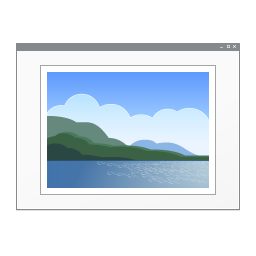
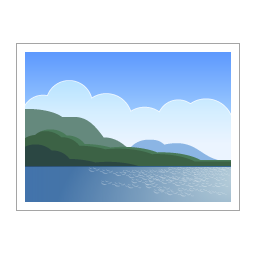
Add more systemIcons; use them for random shortcuts

Changed region(s): [[0.0625, 0.1562, 0.9375, 0.8438]]

diff --git a/index.html b/index.html
@@ -502,41 +502,70 @@
           <!-- <input type="text" id="editShortcutIcon"> -->
           <div class="editIcon radius5 alignCenter chooseBox">
             <label for="editIconfolderFull">
-            <input class="hide" type="radio" id="editIconfolderFull" name="editShortcutIcon" value="folderFull.png">
+            <input class="hide" type="radio" id="editIconfolderFull" name="editShortcutIcon" value="folderFull.png"/>
             <img class="radius5" src="os/windows/systemIcons/folderFull.png"></label>
             
             <label for="editIconfolderEmpty">
-            <input class="hide" type="radio" id="editIconfolderEmpty" name="editShortcutIcon" value="folderEmpty.png">
+            <input class="hide" type="radio" id="editIconfolderEmpty" name="editShortcutIcon" value="folderEmpty.png"/>
             <img class="radius5" src="os/windows/systemIcons/folderEmpty.png"></label>
 
             <label for="editIconfileImage">
-            <input class="hide" type="radio" id="editIconfileImage" name="editShortcutIcon" value="fileImage.png">
+            <input class="hide" type="radio" id="editIconfileImage" name="editShortcutIcon" value="fileImage.png"/>
             <img class="radius5" src="os/windows/systemIcons/fileImage.png"></label>
             
             <label for="editIconfileMovie">
-            <input class="hide" type="radio" id="editIconfileMovie" name="editShortcutIcon" value="fileMovie.png">
+            <input class="hide" type="radio" id="editIconfileMovie" name="editShortcutIcon" value="fileMovie.png"/>
             <img class="radius5" src="os/windows/systemIcons/fileMovie.png"></label>
             
             <label for="editIconfile">
-            <input class="hide" type="radio" id="editIconfile" name="editShortcutIcon" value="file.png">
+            <input class="hide" type="radio" id="editIconfile" name="editShortcutIcon" value="file.png"/>
             <img class="radius5" src="os/windows/systemIcons/file.png"></label>
 
             <label for="editIconhdd">
-            <input class="hide" type="radio" id="editIconhdd" name="editShortcutIcon" value="hdd.png">
+            <input class="hide" type="radio" id="editIconhdd" name="editShortcutIcon" value="hdd.png"/>
             <img class="radius5" src="os/windows/systemIcons/hdd.png"></label>
             
             <label for="editIcondvd">
-            <input class="hide" type="radio" id="editIcondvd" name="editShortcutIcon" value="dvd.png">
+            <input class="hide" type="radio" id="editIcondvd" name="editShortcutIcon" value="dvd.png"/>
             <img class="radius5" src="os/windows/systemIcons/dvd.png"></label>
             
             <label for="editIcontrashEmpty">
-            <input class="hide" type="radio" id="editIcontrashEmpty" name="editShortcutIcon" value="trashEmpty.png">
+            <input class="hide" type="radio" id="editIcontrashEmpty" name="editShortcutIcon" value="trashEmpty.png"/>
             <img class="radius5" src="os/windows/systemIcons/trashEmpty.png"></label>
             
             <label for="editIcontrashFull">
-            <input class="hide" type="radio" id="editIcontrashFull" name="editShortcutIcon" value="trashFull.png">
+            <input class="hide" type="radio" id="editIcontrashFull" name="editShortcutIcon" value="trashFull.png"/>
             <img class="radius5" src="os/windows/systemIcons/trashFull.png"></label>
+            
+            <label for="editIconcomputer">
+              <input class="hide" type="radio" id="editIconcomputer" name="editShortcutIcon" value="computer.png"/>
+            <img class="radius5" src="os/windows/systemIcons/computer.png"></label>
+            
+            <label for="editIcondoc">
+              <input class="hide" type="radio" id="editIcondoc" name="editShortcutIcon" value="doc.png"/>
+            <img class="radius5" src="os/windows/systemIcons/doc.png"></label>
+            
+            <label for="editIconzip">
+              <input class="hide" type="radio" id="editIconzip" name="editShortcutIcon" value="zip.png"/>
+            <img class="radius5" src="os/windows/systemIcons/zip.png"></label>
+            
+            <label for="editIconmp3">
+              <input class="hide" type="radio" id="editIconmp3" name="editShortcutIcon" value="mp3.png"/>
+            <img class="radius5" src="os/windows/systemIcons/mp3.png"></label>
+            
+            <label for="editIconpython">
+              <input class="hide" type="radio" id="editIconpython" name="editShortcutIcon" value="python.png"/>
+            <img class="radius5" src="os/windows/systemIcons/python.png"></label>
+            
+            <label for="editIcontxt">
+              <input class="hide" type="radio" id="editIcontxt" name="editShortcutIcon" value="txt.png"/>
+            <img class="radius5" src="os/windows/systemIcons/txt.png"></label>
+            
+            <label for="editIconpdf">
+              <input class="hide" type="radio" id="editIconpdf" name="editShortcutIcon" value="pdf.png"/>
+            <img class="radius5" src="os/windows/systemIcons/pdf.png"></label>
           </div>
+
           <input type="text" class="maxWidth radius2" id="editShortcutName" placeholder="Insert displayed filename"
             onkeydown="if(event.key === 'Enter') gebi('saveShortcutButton').click();">
           <textarea type="text" class="maxWidth radius2" id="editShortcutAction" placeholder="Javascript command.."></textarea>
@@ -641,7 +670,7 @@
               <input class="hide" checked type="checkbox" onchange="toggle('systemIcons-'+this.value);" id="editTaskbarIcon-watch_later" name="editTaskbarIcon" value="watch_later">
               <i class="material-icons medium radius5 valign">watch_later</i>
             </label>
-            
+
             <label for="editTaskbarIcon-clock" class="pointer relative nobr ">
               <i class="inlineBlock material-icons editTaskbarIcon-clock-hide hover tiny redBg circle" onclick="gebi('editTaskbarIcon-clock').value = ''; gebi('editTaskbarIcon-clock').classList.remove('blueBg'); hide('systemIcons-clock');">close</i>
               <input class="radius5" placeholder="HH:MM" type="time" oninput="this.value ? [this.classList.add('blueBg'), show('systemIcons-clock'), gebi('systemIcons-clock').innerHTML = this.value] :  [this.classList.remove('blueBg'), hide('systemIcons-clock')]" id="editTaskbarIcon-clock" name="editTaskbarIcon" value="">

diff --git a/tools/windowmanager.js b/tools/windowmanager.js
@@ -433,16 +433,17 @@ function placeShortcut(name, icon, x,y, action) {
 }
 
 function clutterDesktop(count) {
-  let randomIcon = [
-    "folderFull.png", "folderFull.png", "folderFull.png", "folderFull.png", "folderFull.png", "folderEmpty.png", "folderEmpty.png", "fileMovie.png", "fileImage.png", "fileImage.png", "fileImage.png", "fileImage.png", "fileImage.png", "file.png", "file.png", "file.png", "file.png", "file.png" ]
+  /* TODO GET ICON PATH FROM FILENAME & EXTENSION */
   let randomNameParts = [
     "File", "file", "Document", "Home", "Personal", "var", "VAR", "Favorites", "A-433", "Photos", "Links", "Important",
   ]
   let randomNameSuffix = [
-    "", "", "", "", "", "", "", ".avi", ".png", ".jpg", ".jpg", ".JPG", ".jpeg", "", "", "", "", ""
+    "", "", "", "", "", "", "","", "", "", "", "", "", "","", "", "", "", "", "", "","", "", "", "", "", "", "","", "", "", "", "", "", "",
+    "", "", "", "", "", "", "","", "", "", "", "", "", "","", "", "", "", "", "", "","", "", "", "", "", "", "","", "", "", "", "", "", "",
+    ".jpg", ".jpeg", ".png", ".tiff", ".psd", ".doc", ".docx", ".pyc", ".py", ".txt", ".rtf", ".pdf", ".zip", ".mp3", ".mp4", ".avi", ".mpeg", ".mkv", ".trash",
+    ".avi", ".png", ".jpg", ".jpg", ".JPG", ".jpeg", ".zip", ".mp4", ".txt", ".doc", ".mp3" , ".pyc", ".pdf", ".pdf", ".PDF" 
   ]
 
-  let rand;
   let x;
   let y;
   let name;
@@ -451,14 +452,13 @@ function clutterDesktop(count) {
     /* console.log(i); */
     x = randomBetween(1, 93);
     y = randomBetween(1, 85);
-    rand = chooseRandomKey(randomIcon);
     /* console.log(rand, x, y, randomIcon[rand]); */
     name = randomNameParts[chooseRandomKey(randomNameParts)];
-    name += randomBetween(0, 100) > 85 ? " " + createUniqueId() : "";
+    name += randomBetween(0, 100) > 85 ? " " + createUniqueId(5) : "";
     name += randomBetween(0, 100) > 75 ? " Copy" : "";
-    name += randomNameSuffix[rand];
+    name += randomNameSuffix[chooseRandomKey(randomNameSuffix)];
     //console.log(name);
-    placeShortcut(name, randomIcon[rand], x,y, "");
+    placeShortcut(name, iconDecider(name, name.split(".").length === 1), x,y, "");
   }
 }
 

diff --git a/tools/general.js b/tools/general.js
@@ -233,3 +233,38 @@ function dynamicSort(keyName) {
       }
   }
 }
+
+
+function iconDecider(filename, folderContentAmount) {
+  /* let path = "../../os/" + os + "/systemIcons/"; */
+  let path = "/";
+  if(folderContentAmount === 0) return path + "folderEmpty.png";
+  if(folderContentAmount > 0) return path + "folderFull.png";
+
+  let fileEnding = (filename.split(".")[1] + "").toLowerCase();  // yes this ignores a dot in bewtween filenames
+
+  switch (fileEnding) {
+      case "jpg": path += "fileImage.png"; break;
+      case "jpeg": path += "fileImage.png"; break;
+      case "png": path += "fileImage.png"; break;
+      case "tiff": path += "fileImage.png"; break;
+      case "psd": path += "fileImage.png"; break;
+      case "doc": path += "doc.png"; break;
+      case "docx": path += "doc.png"; break;
+      case "pyc": path += "python.png"; break;
+      case "py": path += "python.png"; break;
+      case "txt": path += "txt.png"; break;
+      case "rtf": path += "txt.png"; break;
+      case "pdf": path += "pdf.png"; break;
+      case "zip": path += "zip.png"; break;
+      case "mp3": path += "mp3.png"; break;
+      case "mp4": path += "fileMovie.png"; break;
+      case "avi": path += "fileMovie.png"; break;
+      case "mpeg": path += "fileMovie.png"; break;
+      case "mkv": path += "fileMovie.png"; break;
+      case "trash": path += "trashFull.png"; break;
+      default: path += "file.png"
+  }
+
+  return path;
+} 

diff --git a/programs/filemanager/filemanager.js b/programs/filemanager/filemanager.js
@@ -99,7 +99,7 @@ function updateFolderContent(folderContent) {
 
         let fileIcon = document.createElement("img");
         fileIcon.setAttribute("alt", "");
-        fileIcon.setAttribute("src", iconDecider(file[0], isFolder));
+        fileIcon.setAttribute("src", "os/"+os+"/workstation/"+workstation+"/"+iconDecider(currentFile[0], isFolder));
         fileTile.appendChild(fileIcon);
 
         fileName.appendChild(document.createTextNode(file[0]));

diff --git a/tools/desktop.css b/tools/desktop.css
@@ -91,6 +91,7 @@ input[type=button]:not(.systemButton) {
     background-color: rgba(255,255,255,0.1);
 }
 
+.dialog .chooseBox label img,
 .dialog .chooseBox i {
     padding: .25em;
     margin: .25em;
